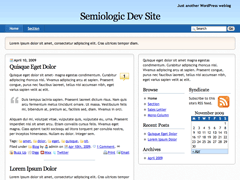
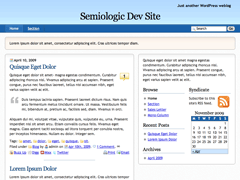
add missing title colors in copywriter skins
git-svn-id: file:///Users/michaelkoepke/svn/semiologic@3333 6c9c31c4-cb3d-4424-af3d-876279169c7e

Changed region(s): [[0.0292, 0.9167, 0.2333, 0.9722], [0.0292, 0.3611, 0.2333, 0.3889]]

diff --git a/skins/copywriter-beige/trunk/skin.css b/skins/copywriter-beige/trunk/skin.css
@@ -381,6 +381,11 @@ html,
 	color: #000;
 }
 
+.entry_header h1,
+.archives_header h1 {
+	color: #5c4025; /* L30 */
+}
+
 #navbar a,
 #footer a {
 	color: #000;

diff --git a/skins/copywriter-blue/trunk/skin.css b/skins/copywriter-blue/trunk/skin.css
@@ -381,6 +381,11 @@ html,
 	color: #000;
 }
 
+.entry_header h1,
+.archives_header h1 {
+	color: #134980; /* L30 */
+}
+
 #navbar a,
 #footer a {
 	color: #fff;

diff --git a/skins/copywriter-citrus/trunk/skin.css b/skins/copywriter-citrus/trunk/skin.css
@@ -382,6 +382,11 @@ html,
 	color: #000;
 }
 
+.entry_header h1,
+.archives_header h1 {
+	color: #3f4d17; /* L30 */
+}
+
 #navbar a,
 #footer a {
 	color: #000;

diff --git a/skins/copywriter-gold/trunk/skin.css b/skins/copywriter-gold/trunk/skin.css
@@ -382,6 +382,11 @@ html,
 	color: #000;
 }
 
+.entry_header h1,
+.archives_header h1 {
+	color: #544311; /* L30 */
+}
+
 #navbar a,
 #footer a {
 	color: #000;

diff --git a/skins/copywriter-green/trunk/skin.css b/skins/copywriter-green/trunk/skin.css
@@ -382,6 +382,11 @@ html,
 	color: #000;
 }
 
+.entry_header h1,
+.archives_header h1 {
+	color: #185e18; /* L30 */
+}
+
 #navbar a,
 #footer a {
 	color: #fff;

diff --git a/skins/copywriter-purple/trunk/skin.css b/skins/copywriter-purple/trunk/skin.css
@@ -382,6 +382,11 @@ html,
 	color: #000;
 }
 
+.entry_header h1,
+.archives_header h1 {
+	color: #7a187a; /* L30 */
+}
+
 #navbar a,
 #footer a {
 	color: #fff;

diff --git a/skins/copywriter-red/trunk/skin.css b/skins/copywriter-red/trunk/skin.css
@@ -382,6 +382,11 @@ html,
 	color: #000;
 }
 
+.entry_header h1,
+.archives_header h1 {
+	color: #8a1515; /* L30 */
+}
+
 #navbar a,
 #footer a {
 	color: #fff;

diff --git a/skins/copywriter-silver/trunk/skin.css b/skins/copywriter-silver/trunk/skin.css
@@ -382,6 +382,11 @@ html,
 	color: #000;
 }
 
+.entry_header h1,
+.archives_header h1 {
+	color: #474747; /* L30 */
+}
+
 #navbar a,
 #footer a {
 	color: #000;

diff --git a/skins/copywriter-teal/trunk/skin.css b/skins/copywriter-teal/trunk/skin.css
@@ -382,6 +382,11 @@ html,
 	color: #000;
 }
 
+.entry_header h1,
+.archives_header h1 {
+	color: #184f4f; /* L30 */
+}
+
 #navbar a,
 #footer a {
 	color: #fff;
